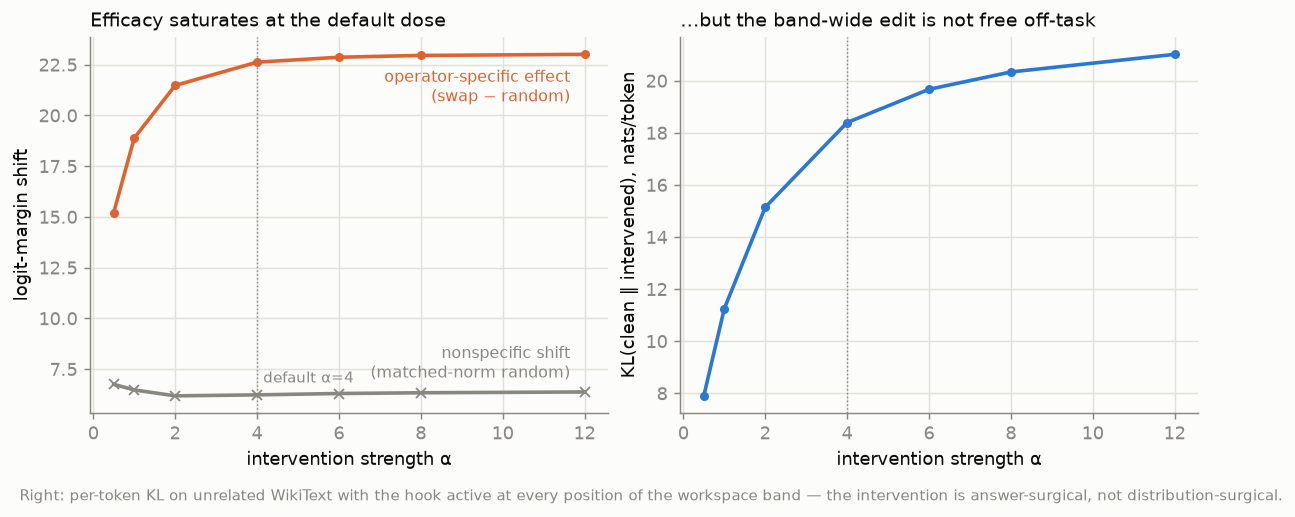
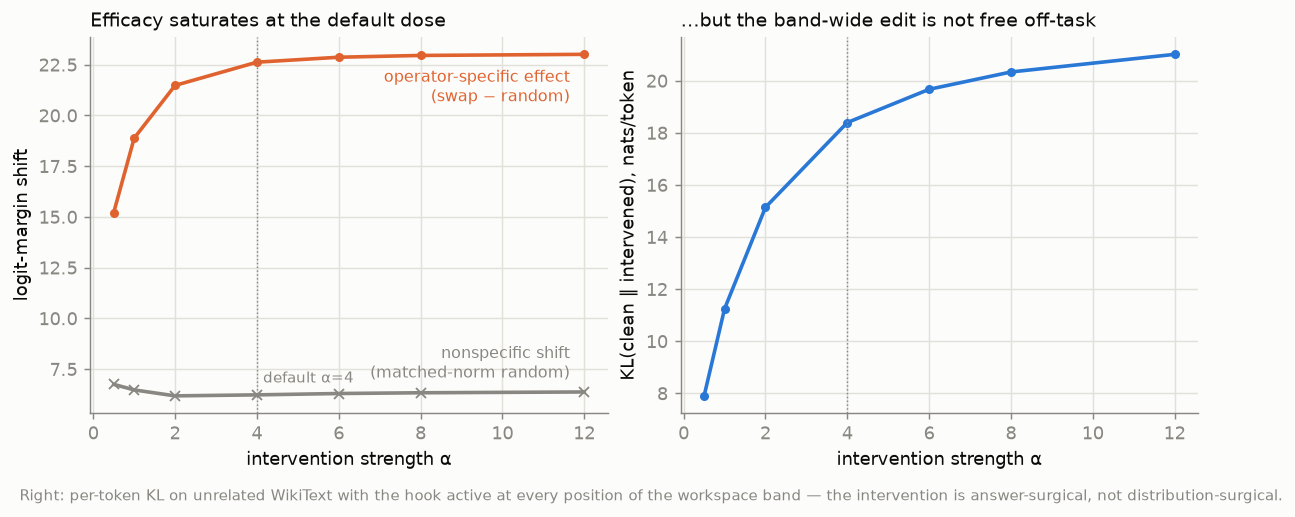
Deployed ea446dd with MkDocs version: 1.6.1

diff --git a/es/index.html b/es/index.html
@@ -328,10 +328,21 @@
     <ul class="md-nav__list" data-md-component="toc" data-md-scrollfix>
       
         <li class="md-nav__item">
-  <a href="#la-idea-en-60-segundos" class="md-nav__link">
+  <a href="#el-hallazgo-conceptualmente" class="md-nav__link">
     <span class="md-ellipsis">
       
-        La idea en 60 segundos
+        El hallazgo, conceptualmente
+      
+    </span>
+  </a>
+  
+</li>
+      
+        <li class="md-nav__item">
+  <a href="#los-numeros" class="md-nav__link">
+    <span class="md-ellipsis">
+      
+        Los números
       
     </span>
   </a>
@@ -670,17 +681,39 @@
 
 
 <h1 id="las-operaciones-relacionales-se-factorizan-de-sus-operandos-en-llms">Las operaciones relacionales se factorizan de sus operandos en LLMs</h1>
-<p class="hero-sub">Intervenciones causales revelan <b>direcciones de operador transferibles</b>
-para relaciones factuales — replicado en <b>Qwen3-1.7B/8B y Gemma-2-9B</b> — mientras que la
-aritmética y la lógica permanecen entrelazadas con sus operandos.</p>
+<p class="hero-sub">¿Cómo representa un modelo de lenguaje <i>"la capital de Italia"</i>?
+Encontramos que divide el pensamiento en dos: <b>la cosa</b> (Italia) y <b>la operación que se le
+aplica</b> (capital-de) — y la operación vive como su propia <b>dirección</b> en el espacio de
+activaciones: se la puede agarrar, mover y trasplantar.</p>
 
-<div class="stats">
-<div class="stat"><span class="n">20/20 × 3</span><span class="d">swaps de operador cambian la
-respuesta, en los tres modelos — controles aleatorios de norma igualada ≈ 0</span></div>
-<div class="stat"><span class="n">82–86%</span><span class="d">de la varianza del workspace en el
-token de consulta es el operador; ~7–13% interacción ("fusión")</span></div>
-<div class="stat"><span class="n">180/180</span><span class="d">swaps flipean con operandos
-held-out y paráfrasis nunca vistas — un operador real, no interpolación</span></div>
+<h2 id="el-hallazgo-conceptualmente">El hallazgo, conceptualmente</h2>
+<p>El latín marca el <em>rol</em> de un sustantivo con una desinencia — <code>ros-a / ros-am</code>, misma raíz,
+distinta función. A mitad de la red, un LLM hace algo estructuralmente similar con las
+relaciones factuales. Mientras <em>"The currency of Italy is"</em> fluye por el modelo, el estado
+interno de la oración se describe bien como una suma:</p>
+<div class="highlight"><pre><span></span><code>estado ≈ μ + operando(Italia) + operador(moneda-de) + interacción pequeña
+</code></pre></div>
+<p>Tres cosas hacen que esto sea más que un ajuste de curvas:</p>
+<ol>
+<li><strong>El operador es causal.</strong> Sumá la diferencia de direcciones <code>v(capital) − v(moneda)</code> al
+   residual stream y el modelo deja de decir <em>euro</em> y dice <em>Roma</em> — para <strong>todos</strong> los pares
+   ordenados de relaciones que probamos. Una dirección aleatoria del mismo tamaño no hace nada.</li>
+<li><strong>Transfiere.</strong> Construido con la mitad de los países, flipea la otra mitad. Construido con
+   una redacción, flipea paráfrasis que nunca vio. Construida la receta en Qwen, funciona igual
+   en Gemma.</li>
+<li><strong>La operación no es su palabra de salida.</strong> <em>Idioma-de</em> y <em>gentilicio-de</em> terminan ambas en
+   "Italian" — y sin embargo son direcciones distintas, y un marcador construido exactamente
+   donde las dos comparten la palabra sigue instalando la relación. El modelo separa el rol
+   gramatical de la forma superficial, como la declinación separa el caso de la desinencia
+   (<em>sincretismo</em>).</li>
+</ol>
+<p>Y el límite es igual de informativo: corré el mismo pipeline sobre <strong>aritmética</strong> (+, ×, −) o
+<strong>lógica de comparación</strong>, y el operador queda entrelazado con sus operandos y se niega a
+transferir — consistente con "la aritmética como bolsa de heurísticas", y evidencia de que la
+factorización limpia es una propiedad de la <em>recuperación relacional</em>, no del prompting en
+general.</p>
+<div class="hero-gif">
+<p><a href="explorer/"><img alt="La declinación: los mismos 60 estados del workspace, organizados por operando en el token del país, se reorganizan por operador en el token de consulta" src="../figs/declension.gif" /></a></p>
 </div>
 <div class="hero-buttons">
 <p><a class="md-button md-button--primary" href="explorer/"><span class="twemoji"><svg xmlns="http://www.w3.org/2000/svg" viewBox="0 0 24 24"><path d="M10 16.5v-9l6 4.5M12 2A10 10 0 0 0 2 12a10 10 0 0 0 10 10 10 10 0 0 0 10-10A10 10 0 0 0 12 2"/></svg></span> Resultado interactivo</a>
@@ -688,37 +721,25 @@ held-out y paráfrasis nunca vistas — un operador real, no interpolación</spa
 <a class="md-button" href="robustness/"><span class="twemoji"><svg xmlns="http://www.w3.org/2000/svg" viewBox="0 0 24 24"><path d="M6 22a3 3 0 0 1-3-3c0-.6.18-1.16.5-1.63L9 7.81V6a1 1 0 0 1-1-1V4a2 2 0 0 1 2-2h4a2 2 0 0 1 2 2v1a1 1 0 0 1-1 1v1.81l5.5 9.56c.32.47.5 1.03.5 1.63a3 3 0 0 1-3 3zm-1-3a1 1 0 0 0 1 1h12a1 1 0 0 0 1-1c0-.21-.07-.41-.18-.57l-2.29-3.96L14 17l-5.07-5.07-3.75 6.5c-.11.16-.18.36-.18.57m8-9a1 1 0 0 0-1 1 1 1 0 0 0 1 1 1 1 0 0 0 1-1 1 1 0 0 0-1-1"/></svg></span> Evidencia y controles</a>
 <a class="md-button" href="https://github.com/mpodeley/jspace-qwen"><span class="twemoji"><svg xmlns="http://www.w3.org/2000/svg" viewBox="0 0 24 24"><path d="M12 2A10 10 0 0 0 2 12c0 4.42 2.87 8.17 6.84 9.5.5.08.66-.23.66-.5v-1.69c-2.77.6-3.36-1.34-3.36-1.34-.46-1.16-1.11-1.47-1.11-1.47-.91-.62.07-.6.07-.6 1 .07 1.53 1.03 1.53 1.03.87 1.52 2.34 1.07 2.91.83.09-.65.35-1.09.63-1.34-2.22-.25-4.55-1.11-4.55-4.92 0-1.11.38-2 1.03-2.71-.1-.25-.45-1.29.1-2.64 0 0 .84-.27 2.75 1.02.79-.22 1.65-.33 2.5-.33s1.71.11 2.5.33c1.91-1.29 2.75-1.02 2.75-1.02.55 1.35.2 2.39.1 2.64.65.71 1.03 1.6 1.03 2.71 0 3.82-2.34 4.66-4.57 4.91.36.31.69.92.69 1.85V21c0 .27.16.59.67.5C19.14 20.16 22 16.42 22 12A10 10 0 0 0 12 2"/></svg></span> Código</a></p>
 </div>
-<div class="hero-gif">
-<p><a href="explorer/"><img alt="La declinación: los mismos 60 estados del workspace, organizados por operando en el token del país, se reorganizan por operador en el token de consulta" src="../figs/declension.gif" /></a></p>
+<h2 id="los-numeros">Los números</h2>
+<div class="stats">
+<div class="stat"><span class="n">20/20 × 3</span><span class="d">swaps ordenados de operador
+cambian la respuesta en Qwen3-1.7B, Qwen3-8B y Gemma-2-9B; controles aleatorios ≈ 0</span></div>
+<div class="stat"><span class="n">82–86%</span><span class="d">de la varianza del workspace en el
+token de consulta es el operador; la interacción ("fusión") queda en un dígito</span></div>
+<div class="stat"><span class="n">180/180</span><span class="d">flips con operandos held-out y
+paráfrasis nunca vistas — un operador transferible, no interpolación</span></div>
 </div>
-<h2 id="la-idea-en-60-segundos">La idea en 60 segundos</h2>
-<p>El latín marca el <em>rol</em> de un sustantivo con una desinencia de caso: <code>ros-a / ros-am</code> — misma
-raíz, distinta función. Encontramos que los LLMs hacen algo estructuralmente similar con las
-relaciones factuales. Ante <em>"The currency of Italy is"</em>, a mitad de la red el estado de la
-oración se describe bien como</p>
-<div class="highlight"><pre><span></span><code>estado ≈ μ + operando(Italia) + operador(moneda-de) + interacción pequeña
-</code></pre></div>
-<p>La <strong>parte del operador es un objeto causal real</strong>: sumá <code>v(capital) − v(moneda)</code> al residual
-stream y el modelo responde <em>Roma</em> en vez de <em>euro</em> — para <strong>todos</strong> los pares ordenados de las
-cinco relaciones, en <strong>los tres modelos</strong>. La dirección <strong>transfiere</strong>: construida con la mitad
-de los países, flipea la otra mitad; construida con una redacción, flipea paráfrasis nuevas sin
-cambios. Y la operación <strong>no es su palabra de salida</strong>: <em>idioma-de</em> y <em>gentilicio-de</em> producen
-ambas "Italian", pero son direcciones distintas — el modelo separa el rol gramatical de la
-palabra que lo realiza, como la declinación separa el caso de la forma superficial
-(<em>sincretismo</em>).</p>
-<p>La factorización es <strong>específica de la recuperación relacional</strong>: el mismo pipeline sobre
-aritmética (+, ×, −) o lógica de comparación da un operador entrelazado con sus operandos
-(2–4× la interacción) que no generaliza — consistente con "la aritmética como bolsa de
-heurísticas". <a href="explorer/">Exploralo interactivo</a>, <a href="../assets/paper.pdf">leé el paper</a>, o
-<a href="robustness/">verificá cada claim contra su control</a>.</p>
+<p>Todos los efectos principales llevan IC bootstrap 95% a nivel de operador y ninguno cruza cero —
+ver <a href="robustness/">Evidencia y controles</a>: cada claim junto al control que podía matarlo.</p>
 <div class="admonition note">
 <p class="admonition-title">Nota metodológica — el null honesto que originó esto</p>
-<p>Este proyecto empezó como una réplica del claim de legibilidad del J-space/global
-workspace. Bajo controles apareados (incluida una proyección aleatoria de espectro
-igualado), el <strong>readout del J-lens no superó al logit lens</strong> en ninguna de nuestras
-métricas. La estructura operador/operando de arriba es organización <em>causal</em>, no un
-subespacio privilegiadamente legible — y la mitad negativa está documentada con el mismo
-rigor en el <a href="method/">archivo</a> y la <a href="findings/">bitácora</a>.</p>
+<p>Este proyecto empezó como réplica del claim de legibilidad del J-space / global workspace
+(<a href="https://transformer-circuits.pub/2026/workspace/index.html">Gurnee, Sofroniew, Lindsey et al., 2026</a>).
+Bajo controles apareados (incluida una proyección aleatoria de espectro igualado), el
+<strong>readout del J-lens no superó al logit lens</strong> en ninguna métrica. La estructura de arriba es
+organización <em>causal</em>, no un subespacio privilegiadamente legible — la mitad negativa está
+documentada con el mismo rigor en el <a href="method/">archivo</a> y la <a href="findings/">bitácora</a>.</p>
 </div>
 <hr />
 <p><strong>Reproducibilidad.</strong> Todo corre en una sola APU AMD Strix Halo (sin CUDA). Semillas,

diff --git a/index.html b/index.html
@@ -328,10 +328,21 @@
     <ul class="md-nav__list" data-md-component="toc" data-md-scrollfix>
       
         <li class="md-nav__item">
-  <a href="#the-idea-in-60-seconds" class="md-nav__link">
+  <a href="#the-finding-conceptually" class="md-nav__link">
     <span class="md-ellipsis">
       
-        The idea in 60 seconds
+        The finding, conceptually
+      
+    </span>
+  </a>
+  
+</li>
+      
+        <li class="md-nav__item">
+  <a href="#the-numbers" class="md-nav__link">
+    <span class="md-ellipsis">
+      
+        The numbers
       
     </span>
   </a>
@@ -670,17 +681,36 @@
 
 
 <h1 id="relational-operations-factorize-from-their-operands-in-llms">Relational operations factorize from their operands in LLMs</h1>
-<p class="hero-sub">Causal interventions reveal <b>transferable operator directions</b> for factual
-relations — replicated on <b>Qwen3-1.7B/8B and Gemma-2-9B</b> — while arithmetic and logic remain
-entangled with their operands.</p>
+<p class="hero-sub">How does a language model represent <i>"the capital of Italy"</i>? We find it
+splits the thought in two: <b>the thing</b> (Italy) and <b>the operation applied to it</b>
+(capital-of) — and the operation lives as its own <b>direction</b> in activation space, one you can
+grab, move, and transplant.</p>
 
-<div class="stats">
-<div class="stat"><span class="n">20/20 × 3</span><span class="d">operator swaps flip the answer, in
-all three models — matched-norm random controls ≈ 0</span></div>
-<div class="stat"><span class="n">82–86%</span><span class="d">of workspace variance at the query
-token is the operator; ~7–13% interaction ("fusion")</span></div>
-<div class="stat"><span class="n">180/180</span><span class="d">swaps flip under held-out operands
-and unseen paraphrase frames — a real operator, not interpolation</span></div>
+<h2 id="the-finding-conceptually">The finding, conceptually</h2>
+<p>Latin marks a noun's <em>role</em> with a case ending — <code>ros-a / ros-am</code>, same stem, different job.
+Mid-network, an LLM does something structurally similar with factual relations. As
+<em>"The currency of Italy is"</em> flows through the model, the sentence's internal state is well
+described by a sum:</p>
+<div class="highlight"><pre><span></span><code>state ≈ μ + operand(Italy) + operator(currency-of) + small interaction
+</code></pre></div>
+<p>Three things make this more than a curve fit:</p>
+<ol>
+<li><strong>The operator is causal.</strong> Add the direction difference <code>v(capital) − v(currency)</code> to the
+   residual stream and the model stops saying <em>euro</em> and says <em>Rome</em> — for <strong>every</strong> ordered
+   pair of relations we test. A random direction of the same size does nothing.</li>
+<li><strong>It transfers.</strong> Built from half the countries, it flips the other half. Built from one
+   phrasing, it flips paraphrases it never saw. Built on Qwen, the same recipe works on Gemma.</li>
+<li><strong>The operation is not its output word.</strong> <em>Language-of</em> and <em>demonym-of</em> both end in
+   "Italian" — yet they are distinct directions, and a marker built exactly where the two
+   share their word still installs the relation. The model separates the grammatical role from
+   the surface form, the way declension separates case from ending (<em>syncretism</em>).</li>
+</ol>
+<p>And the boundary is just as informative: run the identical pipeline on <strong>arithmetic</strong> (+, ×, −)
+or <strong>comparison logic</strong>, and the operator is entangled with its operands and refuses to
+transfer — consistent with "arithmetic as a bag of heuristics", and evidence that the clean
+factorization is a property of <em>relational retrieval</em>, not of prompting in general.</p>
+<div class="hero-gif">
+<p><a href="explorer/"><img alt="The declension morph: the same 60 workspace states, organized by operand at the country token, reorganize by operator at the query token" src="figs/declension.gif" /></a></p>
 </div>
 <div class="hero-buttons">
 <p><a class="md-button md-button--primary" href="explorer/"><span class="twemoji"><svg xmlns="http://www.w3.org/2000/svg" viewBox="0 0 24 24"><path d="M10 16.5v-9l6 4.5M12 2A10 10 0 0 0 2 12a10 10 0 0 0 10 10 10 10 0 0 0 10-10A10 10 0 0 0 12 2"/></svg></span> Interactive result</a>
@@ -688,34 +718,26 @@ and unseen paraphrase frames — a real operator, not interpolation</span></div>
 <a class="md-button" href="robustness/"><span class="twemoji"><svg xmlns="http://www.w3.org/2000/svg" viewBox="0 0 24 24"><path d="M6 22a3 3 0 0 1-3-3c0-.6.18-1.16.5-1.63L9 7.81V6a1 1 0 0 1-1-1V4a2 2 0 0 1 2-2h4a2 2 0 0 1 2 2v1a1 1 0 0 1-1 1v1.81l5.5 9.56c.32.47.5 1.03.5 1.63a3 3 0 0 1-3 3zm-1-3a1 1 0 0 0 1 1h12a1 1 0 0 0 1-1c0-.21-.07-.41-.18-.57l-2.29-3.96L14 17l-5.07-5.07-3.75 6.5c-.11.16-.18.36-.18.57m8-9a1 1 0 0 0-1 1 1 1 0 0 0 1 1 1 1 0 0 0 1-1 1 1 0 0 0-1-1"/></svg></span> Evidence &amp; controls</a>
 <a class="md-button" href="https://github.com/mpodeley/jspace-qwen"><span class="twemoji"><svg xmlns="http://www.w3.org/2000/svg" viewBox="0 0 24 24"><path d="M12 2A10 10 0 0 0 2 12c0 4.42 2.87 8.17 6.84 9.5.5.08.66-.23.66-.5v-1.69c-2.77.6-3.36-1.34-3.36-1.34-.46-1.16-1.11-1.47-1.11-1.47-.91-.62.07-.6.07-.6 1 .07 1.53 1.03 1.53 1.03.87 1.52 2.34 1.07 2.91.83.09-.65.35-1.09.63-1.34-2.22-.25-4.55-1.11-4.55-4.92 0-1.11.38-2 1.03-2.71-.1-.25-.45-1.29.1-2.64 0 0 .84-.27 2.75 1.02.79-.22 1.65-.33 2.5-.33s1.71.11 2.5.33c1.91-1.29 2.75-1.02 2.75-1.02.55 1.35.2 2.39.1 2.64.65.71 1.03 1.6 1.03 2.71 0 3.82-2.34 4.66-4.57 4.91.36.31.69.92.69 1.85V21c0 .27.16.59.67.5C19.14 20.16 22 16.42 22 12A10 10 0 0 0 12 2"/></svg></span> Code</a></p>
 </div>
-<div class="hero-gif">
-<p><a href="explorer/"><img alt="The declension morph: the same 60 workspace states, organized by operand at the country token, reorganize by operator at the query token" src="figs/declension.gif" /></a></p>
+<h2 id="the-numbers">The numbers</h2>
+<div class="stats">
+<div class="stat"><span class="n">20/20 × 3</span><span class="d">ordered operator swaps flip the
+answer in Qwen3-1.7B, Qwen3-8B and Gemma-2-9B; matched-norm random controls ≈ 0</span></div>
+<div class="stat"><span class="n">82–86%</span><span class="d">of workspace variance at the query
+token is the operator; interaction ("fusion") stays single-digit for relations</span></div>
+<div class="stat"><span class="n">180/180</span><span class="d">flips under held-out operands and
+unseen paraphrase frames — a transferable operator, not interpolation</span></div>
 </div>
-<h2 id="the-idea-in-60-seconds">The idea in 60 seconds</h2>
-<p>Latin marks a noun's <em>role</em> with a case ending: <code>ros-a / ros-am</code> — same stem, different job.
-We find LLMs do something structurally similar with factual relations. Ask <em>"The currency of
-Italy is"</em> and, mid-network, the state of the sentence is well described as</p>
-<div class="highlight"><pre><span></span><code>state ≈ μ + operand(Italy) + operator(currency-of) + small interaction
-</code></pre></div>
-<p>The <strong>operator part is a real, causal object</strong>: add <code>v(capital) − v(currency)</code> to the residual
-stream and the model answers <em>Rome</em> instead of <em>euro</em> — for <strong>every</strong> ordered pair of the five
-relations we test, in <strong>all three models</strong>. The direction <strong>transfers</strong>: built on half the
-countries it flips the other half; built on one phrasing it flips paraphrased prompts unchanged.
-And the operation is <strong>not its output word</strong>: <em>language-of</em> and <em>demonym-of</em> both produce
-"Italian", yet are distinct directions — the model separates the grammatical role from the word
-that realizes it, the way declension separates case from surface form (<em>syncretism</em>).</p>
-<p>The factorization is <strong>specific to relational retrieval</strong>: run the identical pipeline on
-arithmetic (+, ×, −) or comparison logic and the operator is entangled with its operands
-(2–4× the interaction) and fails to generalize — consistent with "arithmetic as a bag of
-heuristics". <a href="explorer/">Explore it interactively</a>, <a href="assets/paper.pdf">read the paper</a>, or
-<a href="robustness/">check every claim against its control</a>.</p>
+<p>All headline effects carry operator-level cluster-bootstrap 95% CIs and none crosses zero —
+see <a href="robustness/">Evidence &amp; controls</a> for every claim next to the control that could have
+killed it.</p>
 <div class="admonition note">
 <p class="admonition-title">Methodological note — the honest null that started this</p>
-<p>This project began as a replication of the J-space/global-workspace readout claim. Under
-matched controls (including a spectrum-matched random projection), the <strong>J-lens readout did
-not outperform the logit lens</strong> on any of our metrics. The operator/operand structure above
-is <em>causal</em> organization, not a privileged readable subspace — and the negative half is
-documented with the same rigor in the <a href="method/">archive</a> and <a href="findings/">working log</a>.</p>
+<p>This project began as a replication of the J-space / global-workspace readout claim
+(<a href="https://transformer-circuits.pub/2026/workspace/index.html">Gurnee, Sofroniew, Lindsey et al., 2026</a>).
+Under matched controls (including a spectrum-matched random projection), the <strong>J-lens readout
+did not outperform the logit lens</strong> on any of our metrics. The structure above is <em>causal</em>
+organization, not a privileged readable subspace — the negative half is documented with the
+same rigor in the <a href="method/">archive</a> and <a href="findings/">working log</a>.</p>
 </div>
 <hr />
 <p><strong>Reproducibility.</strong> Everything runs on one AMD Strix Halo APU (no CUDA). Seeds, exact

diff --git a/es/paper/index.html b/es/paper/index.html
@@ -875,7 +875,8 @@ the interaction term is 2–4× larger and the operator <strong>fails to general
 consistent with arithmetic being computed by a "bag of heuristics" rather than a linear operator. A
 control that instead varies a <em>linear numeric parameter</em> (add-N) rather than the function generalizes
 better and is near-collinear, reconciling a contrary recent report (Christ et al. 2025). Finally,
-the structure is <strong>causal, not a readout advantage</strong>: the Jacobian-lens ("J-space") readout is not more
+the structure is <strong>causal, not a readout advantage</strong>: the Jacobian-lens ("J-space") readout (Gurnee,
+Sofroniew, Lindsey et al. 2026) is not more
 legible than the raw residual on any of our metrics under matched controls.</p>
 <h2 id="1-introduction">1. Introduction</h2>
 <p>A line of work shows that a <em>task</em> or <em>relation</em> can be captured by a single addable vector in an LLM's
@@ -906,6 +907,11 @@ the residual state</strong> with an explicit, measured <strong>interaction/fusio
 <strong>operator vs operand</strong>. The operand→operator shift along the sequence restates the subject-enrichment →
 attribute-extraction dynamics of Geva et al. (EMNLP 2023) in operator/operand terms — our least novel point,
 included as confirmation.</p>
+<p><strong>Global workspace and the Jacobian lens.</strong> Gurnee, Sofroniew, Lindsey et al. (2026) introduce the
+Jacobian lens and identify a mid-depth "global workspace" band of the residual stream. We adopt their
+depth band as the site of intervention and their lens as scaffolding; our contribution is orthogonal —
+the operator/operand structure of what that band <em>holds</em> — and we additionally report a controlled null
+on the lens's readout advantage for our task (§4.8).</p>
 <p><strong>Arithmetic and logic.</strong> Arithmetic in LLMs is reported as a "bag of heuristics" (Nikankin et al. 2025)
 and Fourier/helical procedures (Nanda et al. 2023; Zhong et al. 2023; Kantamneni &amp; Tegmark 2025), with the
 operand <em>value</em> cleanly linear (Gurnee &amp; Tegmark 2024). Truth is a steerable direction (Marks &amp; Tegmark
@@ -1226,7 +1232,9 @@ single-digit results, so the add-N grid is small (5 operands) and its generaliza
 terms — the <strong>ordering</strong> (relations ≫ add-N &gt; <code>+ × −</code>), not the magnitude, is the claim.</p>
 <h3 id="48-this-is-causal-structure-not-a-j-space-readout-advantage">4.8 This is causal structure, not a J-space readout advantage</h3>
 <p>On four readout comparisons (bridge-entity pass@k, a surface-form logit difference, a number probe, and a
-concept-plane trajectory), the J-lens readout shows <strong>no advantage</strong> over the logit-lens under matched
+concept-plane trajectory), the Jacobian-lens readout of Gurnee, Sofroniew, Lindsey et al. 2026 — whose
+global-workspace result motivated this project, and whose "workspace" band we intervene on throughout —
+shows <strong>no readout advantage</strong> over the logit-lens under matched
 controls; a spectrum-matched random projection reads number as well as the fitted J-lens, and the
 concept-plane "channel" does not survive a random-plane baseline (see <a href="../findings/">findings §Part 1</a>). The
 operator/operand structure lives in the <strong>causal</strong> organization of the residual, and is <strong>not</strong> more
@@ -1257,6 +1265,7 @@ entangled with their operands. The structure is causal; it is not a more-readabl
 <p>Christ et al. 2025, <em>The Structure of Relation Decoding Linear Operators in Large Language Models</em>, NeurIPS (Spotlight), arXiv:2510.26543 ·
 Chughtai et al. 2024, <em>Summing Up the Facts</em>, arXiv:2402.07321 ·
 Geva et al. 2023, <em>Dissecting Recall of Factual Associations</em>, EMNLP ·
+Gurnee, Sofroniew, Lindsey et al. 2026, <em>Verbalizable Representations Form a Global Workspace in Language Models</em>, Transformer Circuits Thread ·
 Gurnee &amp; Tegmark 2024, <em>Language Models Represent Space and Time</em>, ICLR ·
 Hendel et al. 2023, <em>In-Context Learning Creates Task Vectors</em>, EMNLP Findings, arXiv:2310.15916 ·
 Hernandez et al. 2024, <em>Linearity of Relation Decoding in Transformer LMs</em> (LRE), ICLR, arXiv:2308.09124 ·

diff --git a/paper/index.html b/paper/index.html
@@ -875,7 +875,8 @@ the interaction term is 2–4× larger and the operator <strong>fails to general
 consistent with arithmetic being computed by a "bag of heuristics" rather than a linear operator. A
 control that instead varies a <em>linear numeric parameter</em> (add-N) rather than the function generalizes
 better and is near-collinear, reconciling a contrary recent report (Christ et al. 2025). Finally,
-the structure is <strong>causal, not a readout advantage</strong>: the Jacobian-lens ("J-space") readout is not more
+the structure is <strong>causal, not a readout advantage</strong>: the Jacobian-lens ("J-space") readout (Gurnee,
+Sofroniew, Lindsey et al. 2026) is not more
 legible than the raw residual on any of our metrics under matched controls.</p>
 <h2 id="1-introduction">1. Introduction</h2>
 <p>A line of work shows that a <em>task</em> or <em>relation</em> can be captured by a single addable vector in an LLM's
@@ -906,6 +907,11 @@ the residual state</strong> with an explicit, measured <strong>interaction/fusio
 <strong>operator vs operand</strong>. The operand→operator shift along the sequence restates the subject-enrichment →
 attribute-extraction dynamics of Geva et al. (EMNLP 2023) in operator/operand terms — our least novel point,
 included as confirmation.</p>
+<p><strong>Global workspace and the Jacobian lens.</strong> Gurnee, Sofroniew, Lindsey et al. (2026) introduce the
+Jacobian lens and identify a mid-depth "global workspace" band of the residual stream. We adopt their
+depth band as the site of intervention and their lens as scaffolding; our contribution is orthogonal —
+the operator/operand structure of what that band <em>holds</em> — and we additionally report a controlled null
+on the lens's readout advantage for our task (§4.8).</p>
 <p><strong>Arithmetic and logic.</strong> Arithmetic in LLMs is reported as a "bag of heuristics" (Nikankin et al. 2025)
 and Fourier/helical procedures (Nanda et al. 2023; Zhong et al. 2023; Kantamneni &amp; Tegmark 2025), with the
 operand <em>value</em> cleanly linear (Gurnee &amp; Tegmark 2024). Truth is a steerable direction (Marks &amp; Tegmark
@@ -1226,7 +1232,9 @@ single-digit results, so the add-N grid is small (5 operands) and its generaliza
 terms — the <strong>ordering</strong> (relations ≫ add-N &gt; <code>+ × −</code>), not the magnitude, is the claim.</p>
 <h3 id="48-this-is-causal-structure-not-a-j-space-readout-advantage">4.8 This is causal structure, not a J-space readout advantage</h3>
 <p>On four readout comparisons (bridge-entity pass@k, a surface-form logit difference, a number probe, and a
-concept-plane trajectory), the J-lens readout shows <strong>no advantage</strong> over the logit-lens under matched
+concept-plane trajectory), the Jacobian-lens readout of Gurnee, Sofroniew, Lindsey et al. 2026 — whose
+global-workspace result motivated this project, and whose "workspace" band we intervene on throughout —
+shows <strong>no readout advantage</strong> over the logit-lens under matched
 controls; a spectrum-matched random projection reads number as well as the fitted J-lens, and the
 concept-plane "channel" does not survive a random-plane baseline (see <a href="../findings/">findings §Part 1</a>). The
 operator/operand structure lives in the <strong>causal</strong> organization of the residual, and is <strong>not</strong> more
@@ -1257,6 +1265,7 @@ entangled with their operands. The structure is causal; it is not a more-readabl
 <p>Christ et al. 2025, <em>The Structure of Relation Decoding Linear Operators in Large Language Models</em>, NeurIPS (Spotlight), arXiv:2510.26543 ·
 Chughtai et al. 2024, <em>Summing Up the Facts</em>, arXiv:2402.07321 ·
 Geva et al. 2023, <em>Dissecting Recall of Factual Associations</em>, EMNLP ·
+Gurnee, Sofroniew, Lindsey et al. 2026, <em>Verbalizable Representations Form a Global Workspace in Language Models</em>, Transformer Circuits Thread ·
 Gurnee &amp; Tegmark 2024, <em>Language Models Represent Space and Time</em>, ICLR ·
 Hendel et al. 2023, <em>In-Context Learning Creates Task Vectors</em>, EMNLP Findings, arXiv:2310.15916 ·
 Hernandez et al. 2024, <em>Linearity of Relation Decoding in Transformer LMs</em> (LRE), ICLR, arXiv:2308.09124 ·